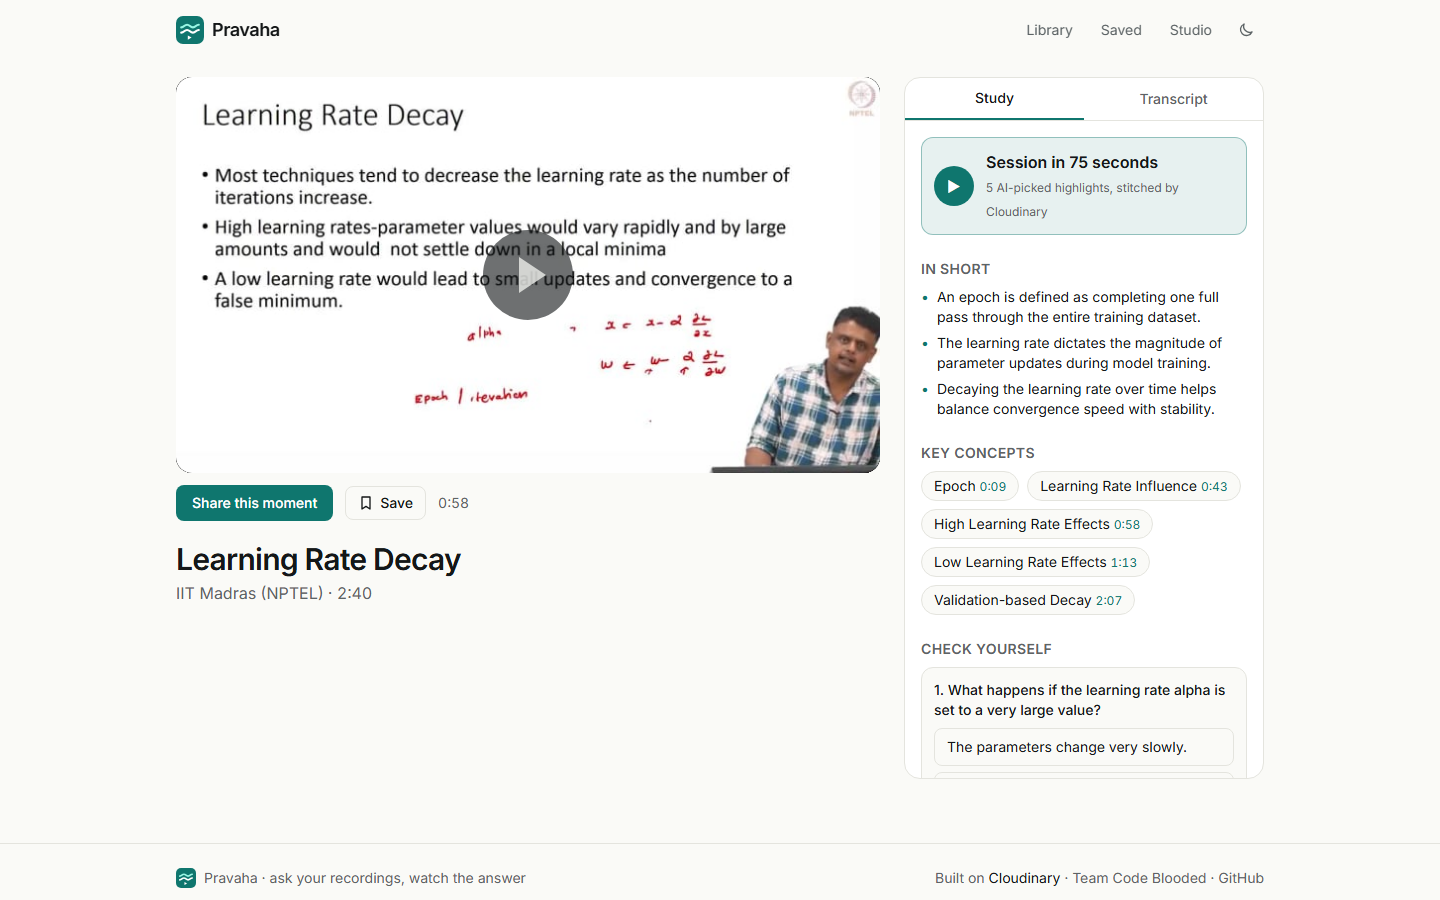
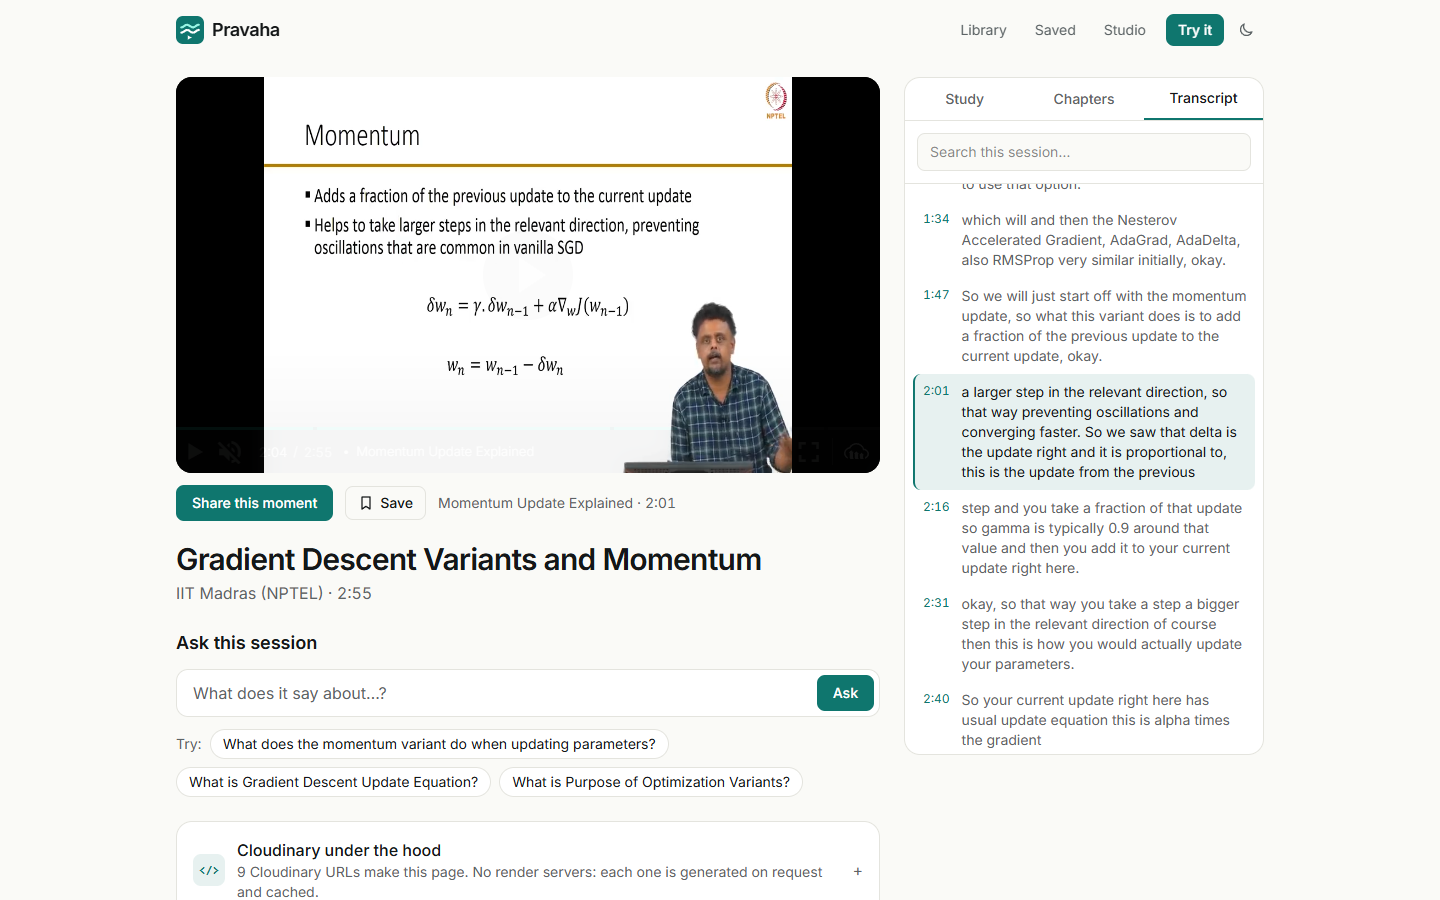
docs(readme): screenshots of the new Watch page, demo Studio and under-the-hood panel

diff --git a/README.md b/README.md
@@ -71,9 +71,13 @@ Colleges, clubs and coaching institutes record hundreds of hours of lectures and
 
 ## Screenshots
 
-| Home | Watch + Study Pack |
+| Home | Watch: follow-along transcript, chapters, Ask this session |
 |---|---|
-| <img src="docs/screenshots/home.png" alt="Home page with the animated hero and the Ask bar" /> | <img src="docs/screenshots/watch.png" alt="Watch page with the adaptive player, chapters and the Study Pack" /> |
+| <img src="docs/screenshots/home.png" alt="Home page with the animated hero and the Ask bar" /> | <img src="docs/screenshots/watch.png" alt="Watch page: the adaptive player, the transcript following the line being spoken, Study, Chapters and Transcript tabs, and Ask this session" /> |
+
+| Studio (public read-only demo): Insights | Cloudinary under the hood |
+|---|---|
+| <img src="docs/screenshots/studio.png" alt="Studio Insights: questions asked, answer rate, questions per day and the sessions answers come from" /> | <img src="docs/screenshots/under-the-hood.png" alt="The under-the-hood panel listing each Cloudinary URL behind a session, with every transformation explained" /> |
 
 <p align="center">
   <img src="docs/screenshots/library.png" alt="The demo library: six lecture excerpts from IIT Kharagpur and IIT Madras" width="900" />
